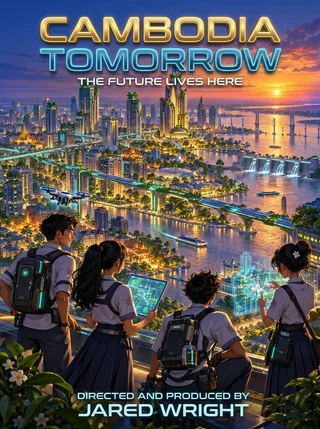
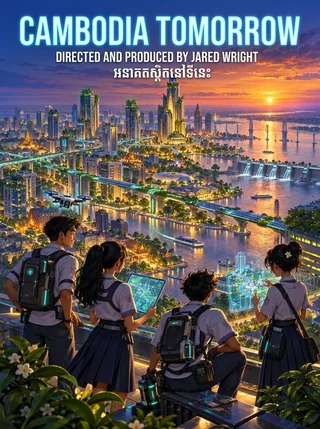
Update Site source

diff --git a/public/sw.js b/public/sw.js
@@ -1,4 +1,4 @@
-const CACHE = "khmerone-v28";
+const CACHE = "khmerone-v29";
 const CORE = ["/", "/api/catalog", "/manifest.webmanifest", "/favicon.svg", "/cambodia-tomorrow-poster-320.webp"];
 
 self.addEventListener("install", (event) => {
